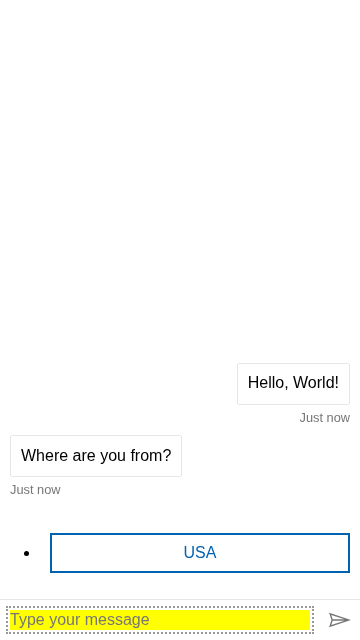
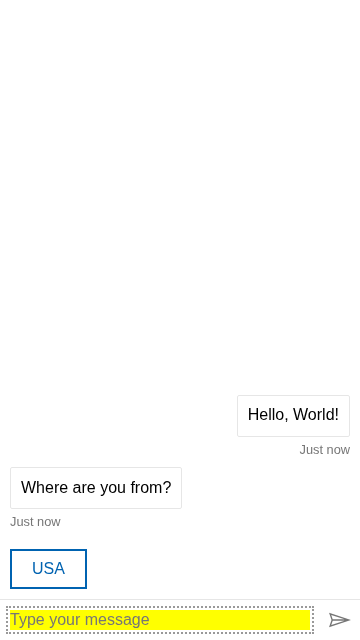
Put suggested actions carousel styles into styleOptions.stylesRoot
The carousel of suggested actions put its react-film styles into the
document head, so suggested actions inside a shadow root lost their
carousel layout and showed a list bullet.

diff --git a/packages/component/src/SendBox/SuggestedActions.tsx b/packages/component/src/SendBox/SuggestedActions.tsx
@@ -36,7 +36,8 @@ const SuggestedActionCarouselContainer = ({ children, className, label }) => {
     {
       suggestedActionsCarouselFlipperBoxWidth,
       suggestedActionsCarouselFlipperCursor,
-      suggestedActionsCarouselFlipperSize
+      suggestedActionsCarouselFlipperSize,
+      stylesRoot
     }
   ] = useStyleOptions();
   const [{ suggestedActions: suggestedActionsStyleSet }] = useStyleSet();
@@ -99,6 +100,7 @@ const SuggestedActionCarouselContainer = ({ children, className, label }) => {
           showDots={false}
           showScrollBar={false}
           styleSet={filmStyleSet}
+          stylesRoot={stylesRoot}
         >
           {children}
         </ReactFilm>
